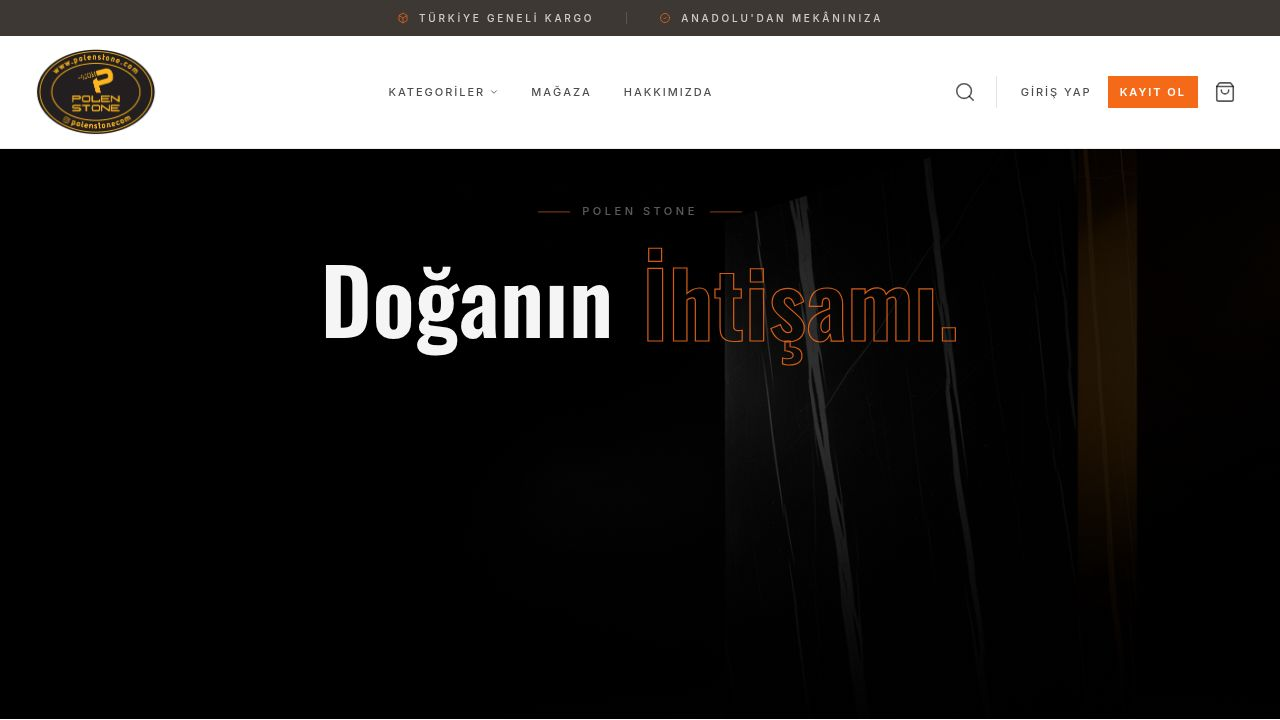
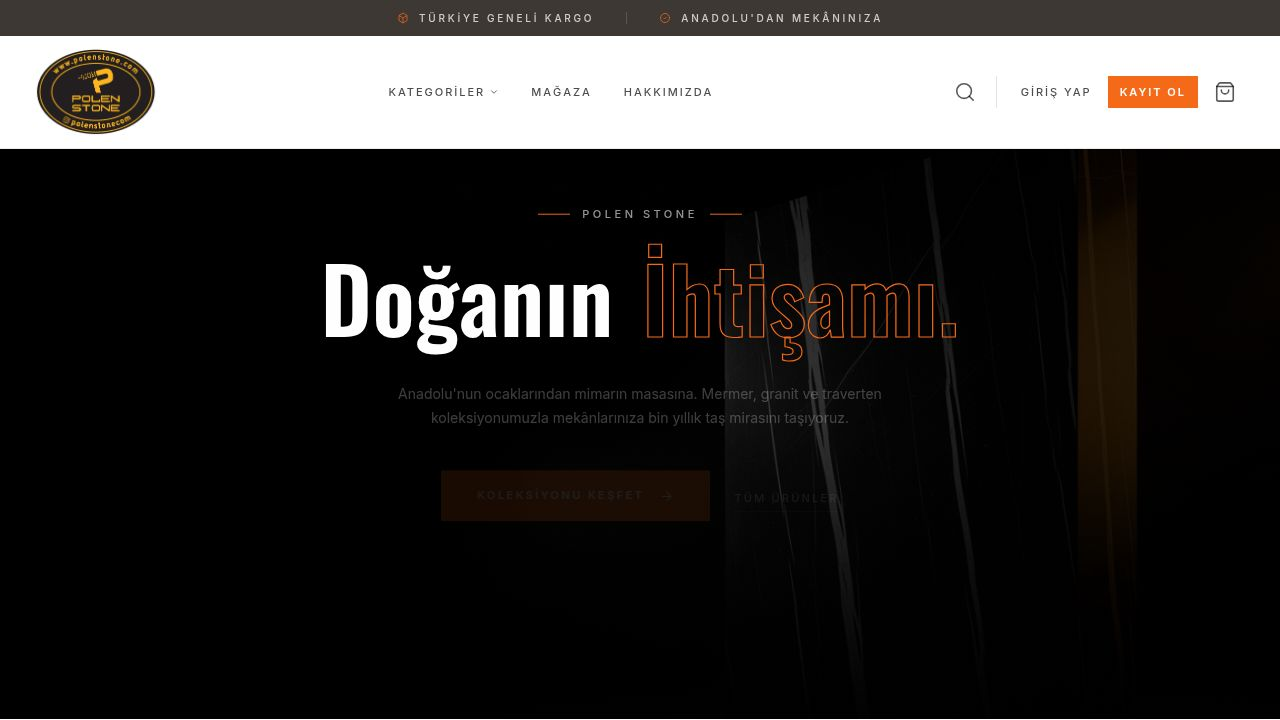
Add script to diagnose Trendyol product categories
Implement a diagnostic script to fetch and analyze product category data from the Trendyol marketplace API, aiding in the identification of discrepancies and ensuring proper mapping within the system.

Replit-Commit-Author: Agent
Replit-Commit-Session-Id: 9662188d-9011-420a-89e8-3a49ab49b02c
Replit-Commit-Checkpoint-Type: full_checkpoint
Replit-Commit-Event-Id: 71e73a65-4dd9-4bb1-add8-5012c2bfabec
Replit-Commit-Screenshot-Url: https://storage.googleapis.com/screenshot-production-us-central1/4862d24e-301f-4551-9133-c69c1d532c87/9662188d-9011-420a-89e8-3a49ab49b02c/HkpHkCG
Replit-Helium-Checkpoint-Created: true

diff --git a/scripts/check-trendyol-cats.ts b/scripts/check-trendyol-cats.ts
@@ -1,0 +1,129 @@
+/**
+ * Trendyol Kategori Teşhis Script'i
+ *
+ * Trendyol API'dan ilk N sayfa ürünü ham olarak çeker; her ürünün gerçek
+ * `categoryId` + `categoryName` bilgisini gösterip kategori bazında dağılımı
+ * çıkartır. Site DB'sinde nasıl göründüğüyle karşılaştırma yapmaya yarar.
+ *
+ * Kullanım (production'da):
+ *   cd /var/www/polenstone
+ *   npx tsx scripts/check-trendyol-cats.ts          # 2 sayfa (≈100 ürün)
+ *   npx tsx scripts/check-trendyol-cats.ts 5        # 5 sayfa (≈250 ürün)
+ *   npx tsx scripts/check-trendyol-cats.ts all      # tüm sayfalar (~860 ürün)
+ *
+ * Gereken env: DATABASE_URL, MARKETPLACE_ENCRYPTION_KEY (.env'den okunur)
+ */
+import "dotenv/config";
+import { db } from "../server/db";
+import { marketplaces } from "../shared/schema";
+import { eq } from "drizzle-orm";
+import { createAdapter } from "../server/marketplaces/registry";
+import { decryptCredentials } from "../server/marketplaces/crypto";
+import "../server/marketplaces/trendyol/adapter";
+
+type CategoryStat = {
+  externalId: string;
+  externalName: string;
+  count: number;
+  samples: string[];
+};
+
+async function main() {
+  const arg = process.argv[2] ?? "2";
+  const maxPages = arg === "all" ? Infinity : Math.max(1, Number(arg));
+
+  const [mp] = await db
+    .select()
+    .from(marketplaces)
+    .where(eq(marketplaces.type, "trendyol"))
+    .limit(1);
+
+  if (!mp) {
+    console.error("HATA: marketplaces tablosunda trendyol kaydı yok.");
+    process.exit(1);
+  }
+  if (!mp.isActive) {
+    console.error("UYARI: Trendyol kaydı pasif (isActive=false).");
+  }
+
+  console.log(`Trendyol marketplace bulundu: ${mp.name} (${mp.id})`);
+  console.log(
+    `Sayfa başına ~50 ürün, max ${arg === "all" ? "TÜM" : maxPages} sayfa çekilecek...\n`,
+  );
+
+  const credentials = decryptCredentials(mp.encryptedCredentials);
+  const adapter = createAdapter(
+    "trendyol",
+    credentials as any,
+    (mp.config ?? {}) as any,
+  );
+
+  const stats = new Map<string, CategoryStat>();
+  let totalProducts = 0;
+  let cursor: any = 0;
+  let pagesFetched = 0;
+
+  while (cursor !== null && pagesFetched < maxPages) {
+    process.stdout.write(`  → Sayfa ${pagesFetched + 1} çekiliyor... `);
+    const page = await adapter.fetchProductsPage(cursor);
+    process.stdout.write(`${page.products.length} ürün\n`);
+    pagesFetched += 1;
+    totalProducts += page.products.length;
+
+    for (const p of page.products) {
+      const key = `${p.externalCategoryId}|${p.externalCategoryName ?? "?"}`;
+      let s = stats.get(key);
+      if (!s) {
+        s = {
+          externalId: p.externalCategoryId,
+          externalName: p.externalCategoryName ?? "(ad yok)",
+          count: 0,
+          samples: [],
+        };
+        stats.set(key, s);
+      }
+      s.count += 1;
+      if (s.samples.length < 4) s.samples.push(p.name);
+    }
+
+    cursor = page.nextCursor;
+  }
+
+  console.log(`\n${"=".repeat(70)}`);
+  console.log(`Toplam ${totalProducts} ürün incelendi (${pagesFetched} sayfa)`);
+  console.log(`Farklı kategori sayısı: ${stats.size}`);
+  console.log("=".repeat(70));
+
+  const sorted = Array.from(stats.values()).sort((a, b) => b.count - a.count);
+
+  if (sorted.length === 1) {
+    console.log("\n⚠️  TÜM ÜRÜNLER TEK KATEGORİDE — Trendyol payload'ı tek bir");
+    console.log("    categoryId döndürüyor. Bu ya mağaza yüklemesinden ya da");
+    console.log("    Trendyol API'nın bu endpoint'te leaf categoryId");
+    console.log("    döndürmemesinden kaynaklanır.\n");
+  } else {
+    console.log(
+      `\n✅ ${sorted.length} farklı kategori bulundu — Trendyol her ürün için`,
+    );
+    console.log("   ayrı categoryId döndürüyor. Site tarafında doğru ayırma");
+    console.log("   yapılması mümkün.\n");
+  }
+
+  console.log("Kategori dağılımı (en çok ürünlüden başlayarak):\n");
+  for (const s of sorted) {
+    console.log(
+      `  [${String(s.count).padStart(4)} ürün]  ${s.externalName}  (id: ${s.externalId})`,
+    );
+    for (const sample of s.samples) {
+      console.log(`            └─ ${sample}`);
+    }
+    console.log("");
+  }
+
+  process.exit(0);
+}
+
+main().catch((err) => {
+  console.error("HATA:", err);
+  process.exit(1);
+});